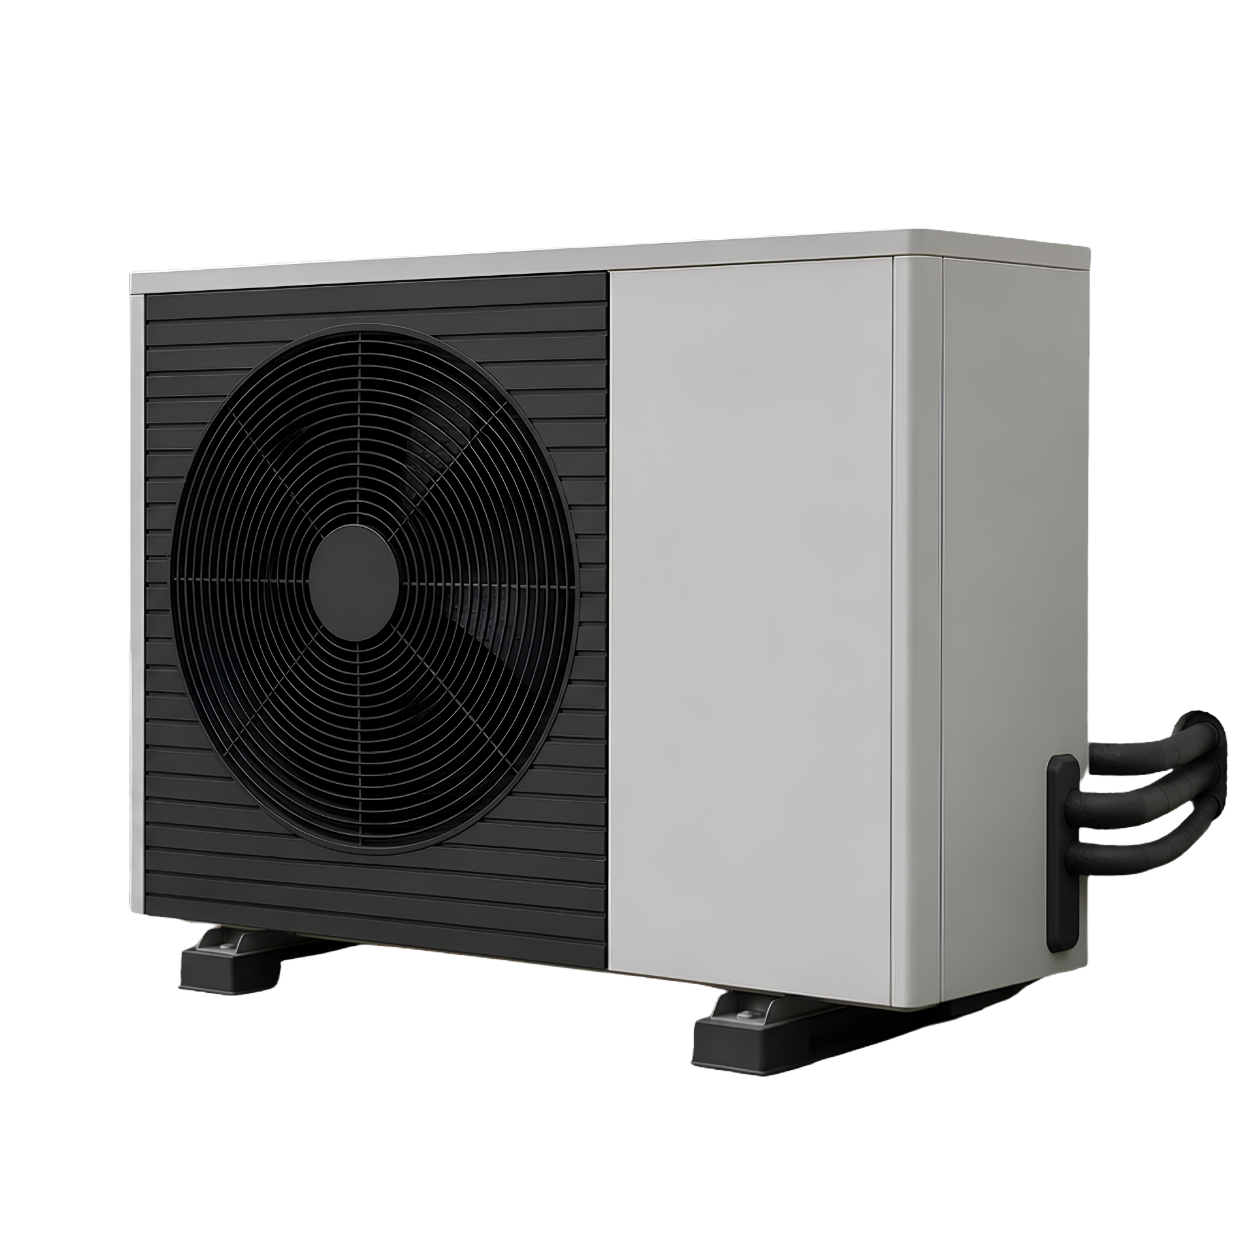
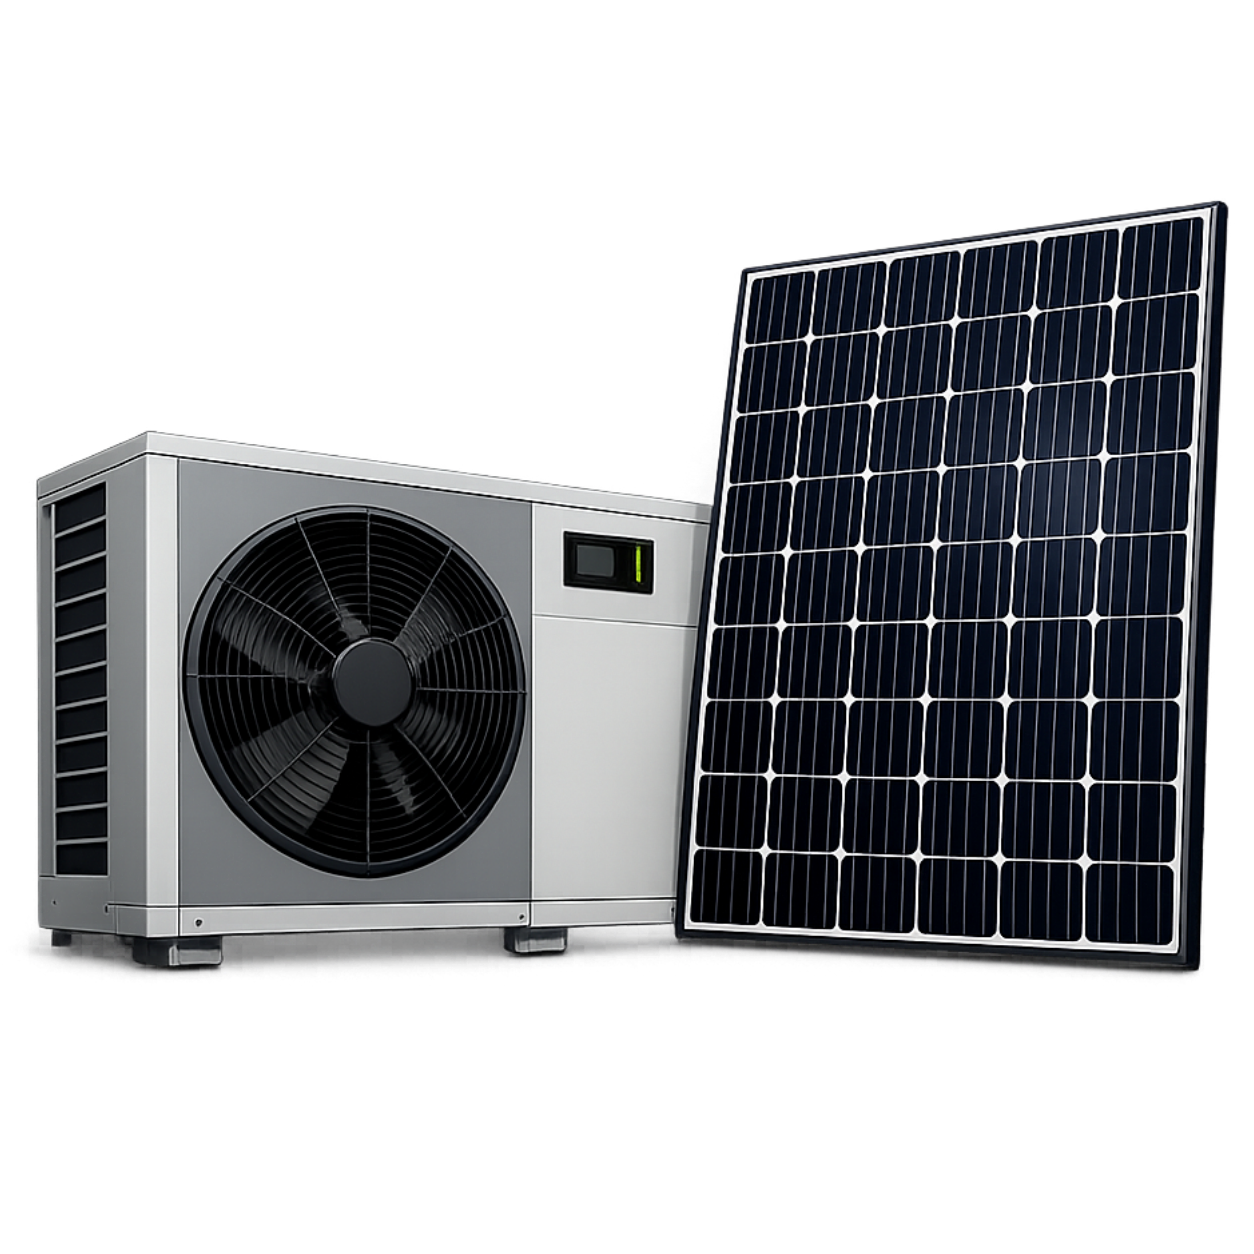
homepage hero: inhaber-card bild auf PV-modul + waermepumpe combo
img/inhaber-wp.png getauscht: vorher nur waermepumpe -> jetzt waermepumpe + solarmodul combo (zeigt beide kern-leistungen). RGBA mit transparentem alpha, kein rembg noetig (corners alpha=0).

alt-text aktualisiert: 'Photovoltaik-Anlage und Waermepumpe von SW Photovoltaik Wuppertal' (SEO + accessibility).

bild sitzt weiterhin bottom-aligned im glas-container (object-position center bottom), startet an der oberen kante, endet an der hellen trennlinie. cache-bust v=1782157000.

diff --git a/index.html b/index.html
@@ -30,7 +30,7 @@
 
   <link rel="stylesheet" href="tailwind.css?v=1782160000">
   <link rel="stylesheet" href="styles.css?v=1782156000">
-  <link rel="modulepreload" href="home.js?v=1782156000">
+  <link rel="modulepreload" href="home.js?v=1782157000">
 
   <script type="application/ld+json">{"@context":"https://schema.org","@type":"LocalBusiness","@id":"https://yallahhabibimax.github.io/solawert/#localbusiness","name":"SolaWert","alternateName":"SW Photovoltaik & Solar Wuppertal","url":"https://yallahhabibimax.github.io/solawert/","image":"https://yallahhabibimax.github.io/solawert/img/solawert-montageteam-wuppertal.jpg","logo":"https://yallahhabibimax.github.io/solawert/img/logo.png","telephone":"[phone redacted]","email":"[email redacted]","priceRange":"€€","address":{"@type":"PostalAddress","streetAddress":"Friedrich-Ebert-Str. 55","postalCode":"42103","addressLocality":"Wuppertal","addressRegion":"Nordrhein-Westfalen","addressCountry":"DE"},"geo":{"@type":"GeoCoordinates","latitude":51.2562,"longitude":7.1508},"areaServed":[{"@type":"City","name":"Wuppertal"},{"@type":"City","name":"Solingen"},{"@type":"City","name":"Remscheid"},{"@type":"City","name":"Velbert"},{"@type":"City","name":"Mettmann"},{"@type":"City","name":"Haan"},{"@type":"AdministrativeArea","name":"Nordrhein-Westfalen"}],"openingHoursSpecification":[{"@type":"OpeningHoursSpecification","dayOfWeek":["Monday","Tuesday","Wednesday","Thursday","Friday","Saturday"],"opens":"08:00","closes":"18:00"}],"founder":{"@type":"Person","name":"Gegam Sargsian","jobTitle":"Inhaber"},"hasOfferCatalog":{"@type":"OfferCatalog","name":"Solar-Leistungen","itemListElement":[{"@type":"Offer","itemOffered":{"@type":"Service","name":"Photovoltaik-Installation","url":"https://yallahhabibimax.github.io/solawert/photovoltaik.html"}},{"@type":"Offer","itemOffered":{"@type":"Service","name":"Wärmepumpen-Installation","url":"https://yallahhabibimax.github.io/solawert/waermepumpe.html"}},{"@type":"Offer","itemOffered":{"@type":"Service","name":"Stromspeicher","url":"https://yallahhabibimax.github.io/solawert/stromspeicher.html"}}]}}</script>
   <script type="application/ld+json">{"@context":"https://schema.org","@type":"WebSite","@id":"https://yallahhabibimax.github.io/solawert/#website","url":"https://yallahhabibimax.github.io/solawert/","name":"SolaWert","publisher":{"@id":"https://yallahhabibimax.github.io/solawert/#localbusiness"},"inLanguage":"de-DE"}</script>
@@ -92,7 +92,7 @@
   <script src="https://cdn.jsdelivr.net/npm/gsap@3.12.5/dist/gsap.min.js"></script>
   <script src="https://cdn.jsdelivr.net/npm/gsap@3.12.5/dist/ScrollTrigger.min.js"></script>
 
-  <script type="module" src="home.js?v=1782156000"></script>
+  <script type="module" src="home.js?v=1782157000"></script>
   <script src="partials.js?v=1782160000"></script>
 </body>
 </html>

diff --git a/home.js b/home.js
@@ -601,7 +601,7 @@ const Hero = () => {
     className: "sw-founder__top"
   }, /*#__PURE__*/React.createElement("img", {
     src: "img/inhaber-wp.png",
-    alt: "Schlüsselfertige Wärmepumpe von SolaWert"
+    alt: "Photovoltaik-Anlage und Wärmepumpe von SW Photovoltaik Wuppertal"
   })), /*#__PURE__*/React.createElement("div", {
     className: "sw-founder__body"
   }, /*#__PURE__*/React.createElement("div", {